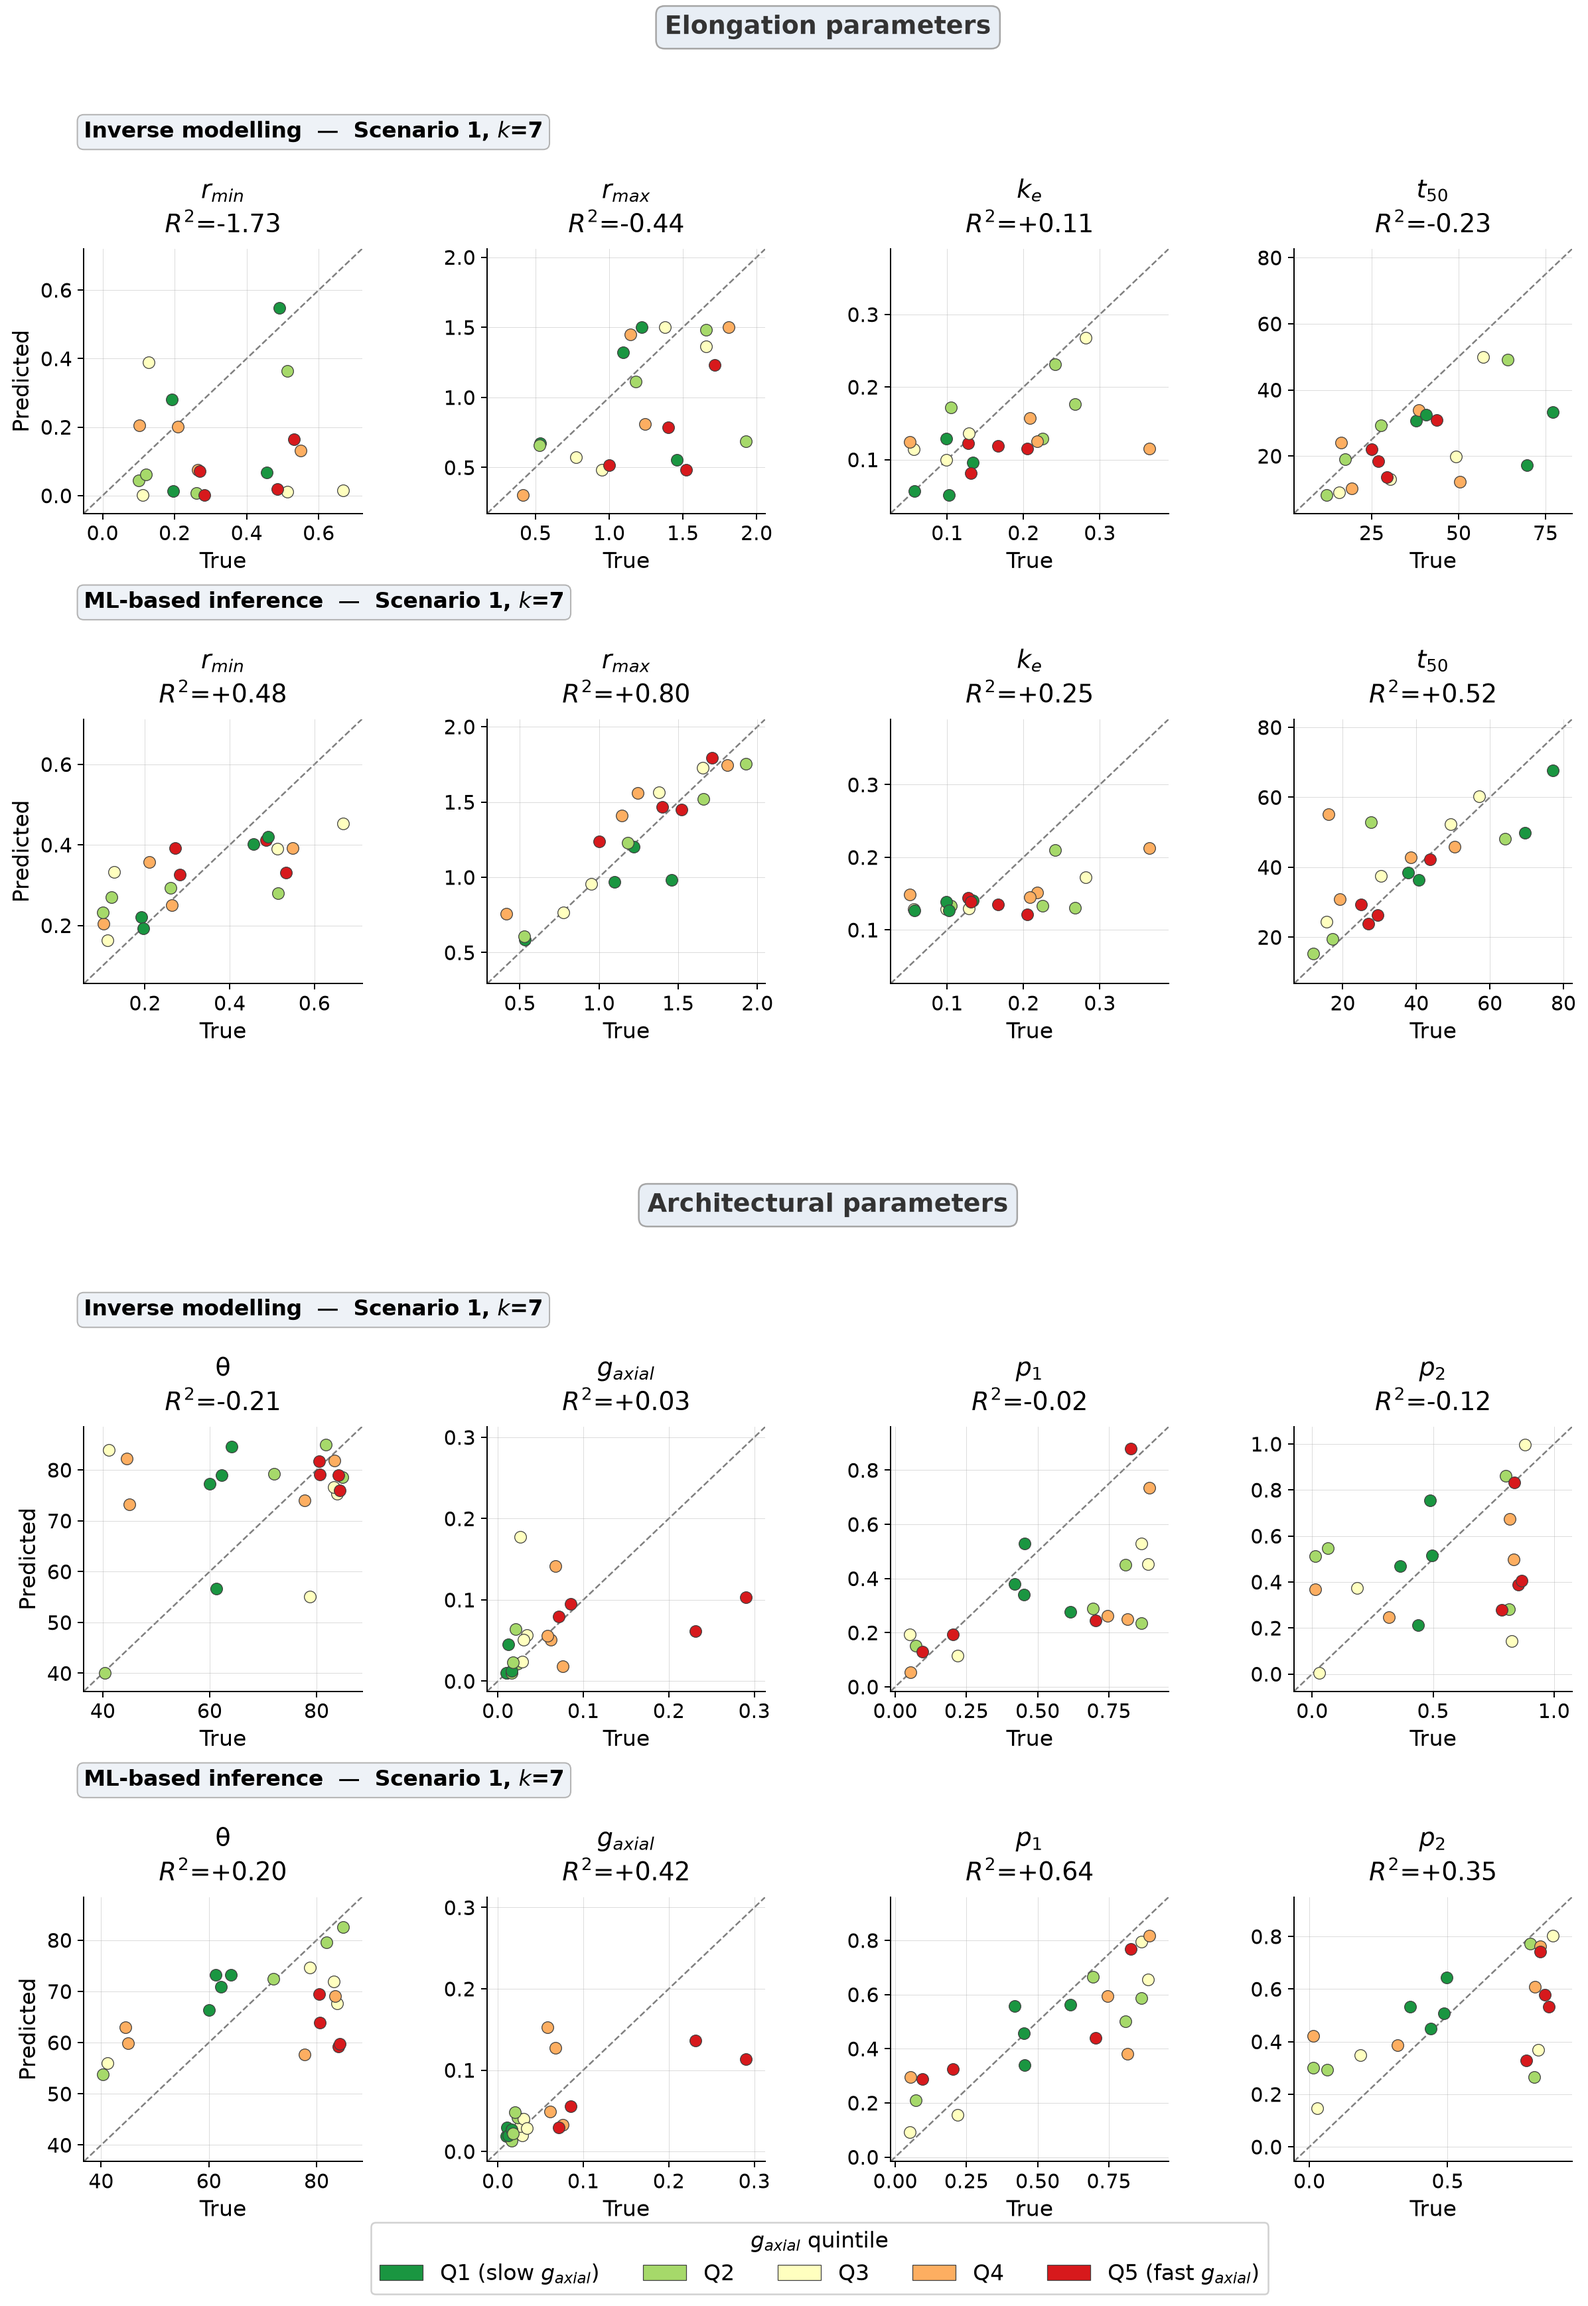
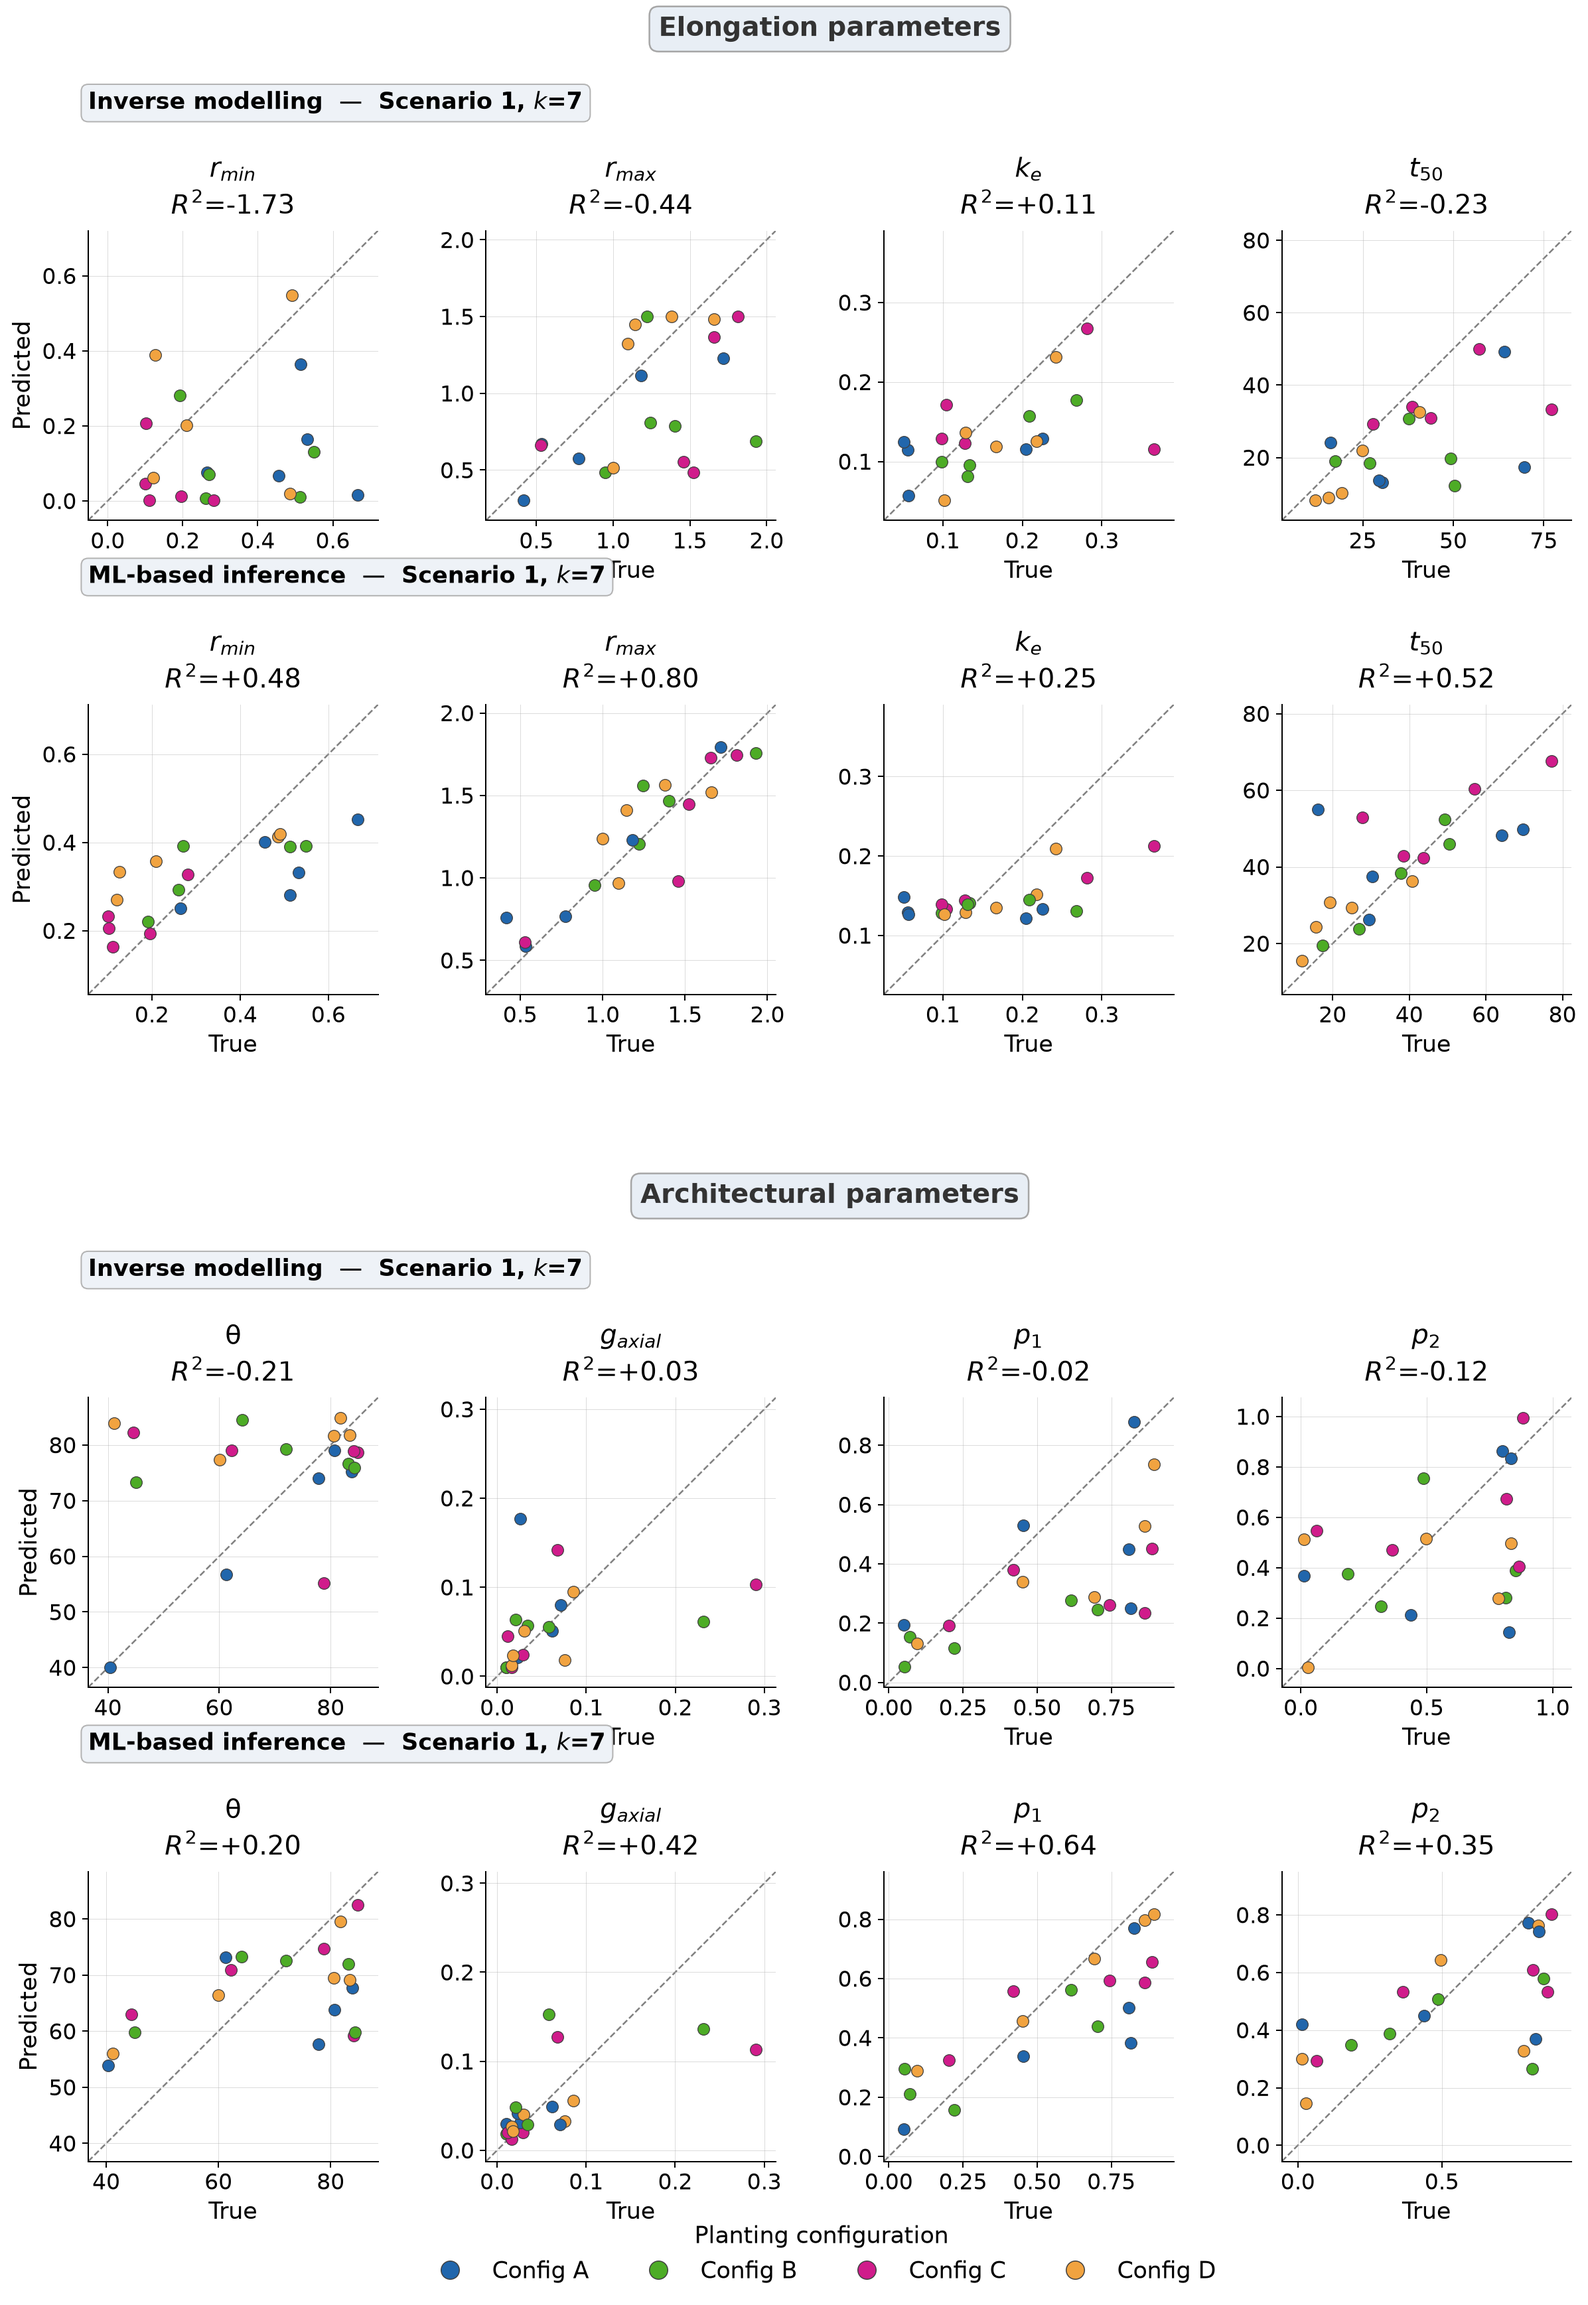
Color Fig 3/4 by planting configuration; circle legend markers; larger fonts; equal aspect
- Replace g_axial quintile coloring with config A/B/C/D (matching Fig 6 palette)
- Switch legend from square patches to circle Line2D markers; frameon=False
- Increase font sizes: titles 15-16pt, axis labels 14pt, ticks 13pt
- Reduce hspace/wspace for tighter layout
- Add set_aspect("equal") for proper 1:1 axes
- Update figure_captions.docx: Fig 3/4 now described as coloured by config

diff --git a/publication/scripts/plot_fig3_parameter_recovery.py b/publication/scripts/plot_fig3_parameter_recovery.py
@@ -18,6 +18,7 @@ import matplotlib
 matplotlib.use("Agg")
 import matplotlib.pyplot as plt
 import matplotlib.patches as mpatches
+from matplotlib.lines import Line2D
 from matplotlib.gridspec import GridSpec
 
 ROOT    = os.path.join(os.path.dirname(os.path.abspath(__file__)), "..", "..")
@@ -44,11 +45,9 @@ PARAM_LABELS = {
     "branching_prob_order1":  "$p_1$",
     "branching_prob_order2":  "$p_2$",
 }
-Q_ORDER  = ["Q1", "Q2", "Q3", "Q4", "Q5"]
-Q_COLORS = {"Q1": "#1a9641", "Q2": "#a6d96a", "Q3": "#ffffbf",
-            "Q4": "#fdae61", "Q5": "#d7191c"}
-Q_LABELS = {"Q1": "Q1 (slow $g_{axial}$)", "Q2": "Q2", "Q3": "Q3",
-            "Q4": "Q4", "Q5": "Q5 (fast $g_{axial}$)"}
+CFG_ORDER  = ["A", "B2", "C", "D2"]
+CFG_COLORS = {"A": "#2166ac", "B2": "#4dac26", "C": "#d01c8b", "D2": "#f1a340"}
+CFG_LABEL  = {"A": "Config A", "B2": "Config B", "C": "Config C", "D2": "Config D"}
 
 
 def r2_score(tv, pv):
@@ -111,7 +110,7 @@ fig = plt.figure(figsize=(14, 20))
 #                 row 3 = architectural header, rows 4-5 = architectural panels
 gs  = GridSpec(6, 4, figure=fig,
                height_ratios=[0.12, 1, 1, 0.12, 1, 1],
-               hspace=1.10, wspace=0.45,
+               hspace=0.90, wspace=0.35,
                left=0.08, right=0.97, top=0.97, bottom=0.07)
 
 def add_group_header(row, label):
@@ -120,7 +119,7 @@ def add_group_header(row, label):
     ax.text(0.5, 0.5, label,
             transform=ax.transAxes,
             ha="center", va="center",
-            fontsize=15, fontweight="bold", color="#333333",
+            fontsize=16, fontweight="bold", color="#333333",
             bbox=dict(boxstyle="round,pad=0.35", fc="#e8eef5", ec="0.65", lw=1.0))
 
 add_group_header(0, "Elongation parameters")
@@ -162,38 +161,40 @@ for gs_start, params, cmae_label, tab_label in GROUP_BLOCKS:
                 if np.isnan(tv[idx]) or np.isnan(pv[idx]):
                     continue
                 ax.scatter(tv[idx], pv[idx],
-                           color=Q_COLORS.get(r["g_axial_quintile"], "gray"),
+                           color=CFG_COLORS.get(r["config"], "gray"),
                            edgecolors="0.25", linewidths=0.5, s=50, zorder=3)
 
             r2 = r2_score(tv, pv)
             ax.set_xlim(lo, hi)
             ax.set_ylim(lo, hi)
-            ax.set_xlabel("True", fontsize=13)
-            ax.set_ylabel("Predicted", fontsize=13) if col_idx == 0 else ax.set_ylabel("")
-            ax.tick_params(labelsize=12)
+            ax.set_aspect("equal")
+            ax.set_xlabel("True", fontsize=14)
+            ax.set_ylabel("Predicted", fontsize=14) if col_idx == 0 else ax.set_ylabel("")
+            ax.tick_params(labelsize=13)
             ax.grid(True, lw=0.35, alpha=0.5)
             ax.spines["top"].set_visible(False)
             ax.spines["right"].set_visible(False)
-            ax.set_title(f"{PARAM_LABELS[param]}\n$R^2$={r2:+.2f}", fontsize=15, pad=10)
+            ax.set_title(f"{PARAM_LABELS[param]}\n$R^2$={r2:+.2f}", fontsize=16, pad=10)
 
             # Row annotation on leftmost column
             if col_idx == 0:
                 ax.annotate(
                     row_label,
                     xy=(0.0, 1.40), xycoords="axes fraction",
-                    fontsize=13, fontweight="bold", ha="left", va="bottom",
+                    fontsize=14, fontweight="bold", ha="left", va="bottom",
                     bbox=dict(boxstyle="round,pad=0.30", fc="#eef2f7", ec="0.7", lw=0.8))
 
 # ── Legend ────────────────────────────────────────────────────────────────────
 
-legend_patches = [
-    mpatches.Patch(facecolor=Q_COLORS[q], edgecolor="0.25",
-                   linewidth=0.5, label=Q_LABELS[q])
-    for q in Q_ORDER
+legend_handles = [
+    Line2D([0], [0], marker="o", color="w",
+           markerfacecolor=CFG_COLORS[c], markeredgecolor="0.25",
+           markeredgewidth=0.6, markersize=11, label=CFG_LABEL[c])
+    for c in CFG_ORDER
 ]
-fig.legend(handles=legend_patches, title="$g_{axial}$ quintile",
-           loc="lower center", ncol=5, fontsize=13, title_fontsize=13,
-           framealpha=0.9, bbox_to_anchor=(0.52, 0.01))
+fig.legend(handles=legend_handles, title="Planting configuration",
+           loc="lower center", ncol=4, fontsize=14, title_fontsize=14,
+           frameon=False, bbox_to_anchor=(0.52, 0.01))
 
 os.makedirs(os.path.dirname(FIG_OUT), exist_ok=True)
 fig.savefig(FIG_OUT, dpi=180, bbox_inches="tight", facecolor="white")

diff --git a/publication/scripts/plot_fig4_parameter_recovery.py b/publication/scripts/plot_fig4_parameter_recovery.py
@@ -15,6 +15,7 @@ import matplotlib
 matplotlib.use("Agg")
 import matplotlib.pyplot as plt
 import matplotlib.patches as mpatches
+from matplotlib.lines import Line2D
 
 ROOT    = os.path.join(os.path.dirname(os.path.abspath(__file__)), "..", "..")
 CALIB   = os.path.join(ROOT, "calibration")
@@ -30,11 +31,9 @@ PARAM_LABELS = {
     "branching_prob_order1": "$p_1$",
     "branching_prob_order2": "$p_2$",
 }
-Q_ORDER  = ["Q1", "Q2", "Q3", "Q4", "Q5"]
-Q_COLORS = {"Q1": "#1a9641", "Q2": "#a6d96a", "Q3": "#ffffbf",
-            "Q4": "#fdae61", "Q5": "#d7191c"}
-Q_LABELS = {"Q1": "Q1 (slow $g_{axial}$)", "Q2": "Q2", "Q3": "Q3",
-            "Q4": "Q4", "Q5": "Q5 (fast $g_{axial}$)"}
+CFG_ORDER  = ["A", "B2", "C", "D2"]
+CFG_COLORS = {"A": "#2166ac", "B2": "#4dac26", "C": "#d01c8b", "D2": "#f1a340"}
+CFG_LABEL  = {"A": "Config A", "B2": "Config B", "C": "Config C", "D2": "Config D"}
 
 
 def r2_score(tv, pv):
@@ -94,8 +93,8 @@ ROW_CONFIGS = [
 # ── Plot 2×4 ──────────────────────────────────────────────────────────────────
 
 fig, axes = plt.subplots(2, 4, figsize=(14, 10))
-fig.subplots_adjust(left=0.07, right=0.97, top=0.88, bottom=0.12,
-                    hspace=0.70, wspace=0.40)
+fig.subplots_adjust(left=0.07, right=0.97, top=0.88, bottom=0.15,
+                    hspace=0.55, wspace=0.35)
 
 for row_idx, (df, row_label) in enumerate(ROW_CONFIGS):
     for col_idx, param in enumerate(ARCH_PARAMS):
@@ -116,36 +115,38 @@ for row_idx, (df, row_label) in enumerate(ROW_CONFIGS):
             if np.isnan(tv[idx]) or np.isnan(pv[idx]):
                 continue
             ax.scatter(tv[idx], pv[idx],
-                       color=Q_COLORS.get(r["g_axial_quintile"], "gray"),
+                       color=CFG_COLORS.get(r["config"], "gray"),
                        edgecolors="0.25", linewidths=0.5, s=55, zorder=3)
 
         r2 = r2_score(tv, pv)
         ax.set_xlim(lo, hi)
         ax.set_ylim(lo, hi)
-        ax.set_xlabel("True", fontsize=11)
-        ax.set_ylabel("Predicted", fontsize=11) if col_idx == 0 else ax.set_ylabel("")
-        ax.tick_params(labelsize=10)
+        ax.set_aspect("equal")
+        ax.set_xlabel("True", fontsize=14)
+        ax.set_ylabel("Predicted", fontsize=14) if col_idx == 0 else ax.set_ylabel("")
+        ax.tick_params(labelsize=13)
         ax.grid(True, lw=0.35, alpha=0.5)
         ax.spines["top"].set_visible(False)
         ax.spines["right"].set_visible(False)
-        ax.set_title(f"{PARAM_LABELS[param]}\n$R^2$ = {r2:+.2f}", fontsize=13, pad=8)
+        ax.set_title(f"{PARAM_LABELS[param]}\n$R^2$ = {r2:+.2f}", fontsize=15, pad=8)
 
     axes[row_idx, 0].annotate(
         row_label,
         xy=(0.0, 1.32), xycoords="axes fraction",
-        fontsize=11, fontweight="bold", ha="left", va="bottom",
+        fontsize=14, fontweight="bold", ha="left", va="bottom",
         bbox=dict(boxstyle="round,pad=0.30", fc="#eef2f7", ec="0.7", lw=0.8))
 
 # ── Legend ────────────────────────────────────────────────────────────────────
 
-legend_patches = [
-    mpatches.Patch(facecolor=Q_COLORS[q], edgecolor="0.25",
-                   linewidth=0.5, label=Q_LABELS[q])
-    for q in Q_ORDER
+legend_handles = [
+    Line2D([0], [0], marker="o", color="w",
+           markerfacecolor=CFG_COLORS[c], markeredgecolor="0.25",
+           markeredgewidth=0.6, markersize=11, label=CFG_LABEL[c])
+    for c in CFG_ORDER
 ]
-fig.legend(handles=legend_patches, title="$g_{axial}$ quintile",
-           loc="lower center", ncol=5, fontsize=11, title_fontsize=11,
-           framealpha=0.9, bbox_to_anchor=(0.52, 0.01))
+fig.legend(handles=legend_handles, title="Planting configuration",
+           loc="lower center", ncol=4, fontsize=13, title_fontsize=13,
+           frameon=False, bbox_to_anchor=(0.52, 0.01))
 
 os.makedirs(os.path.dirname(FIG_OUT), exist_ok=True)
 fig.savefig(FIG_OUT, dpi=180, bbox_inches="tight", facecolor="white")
